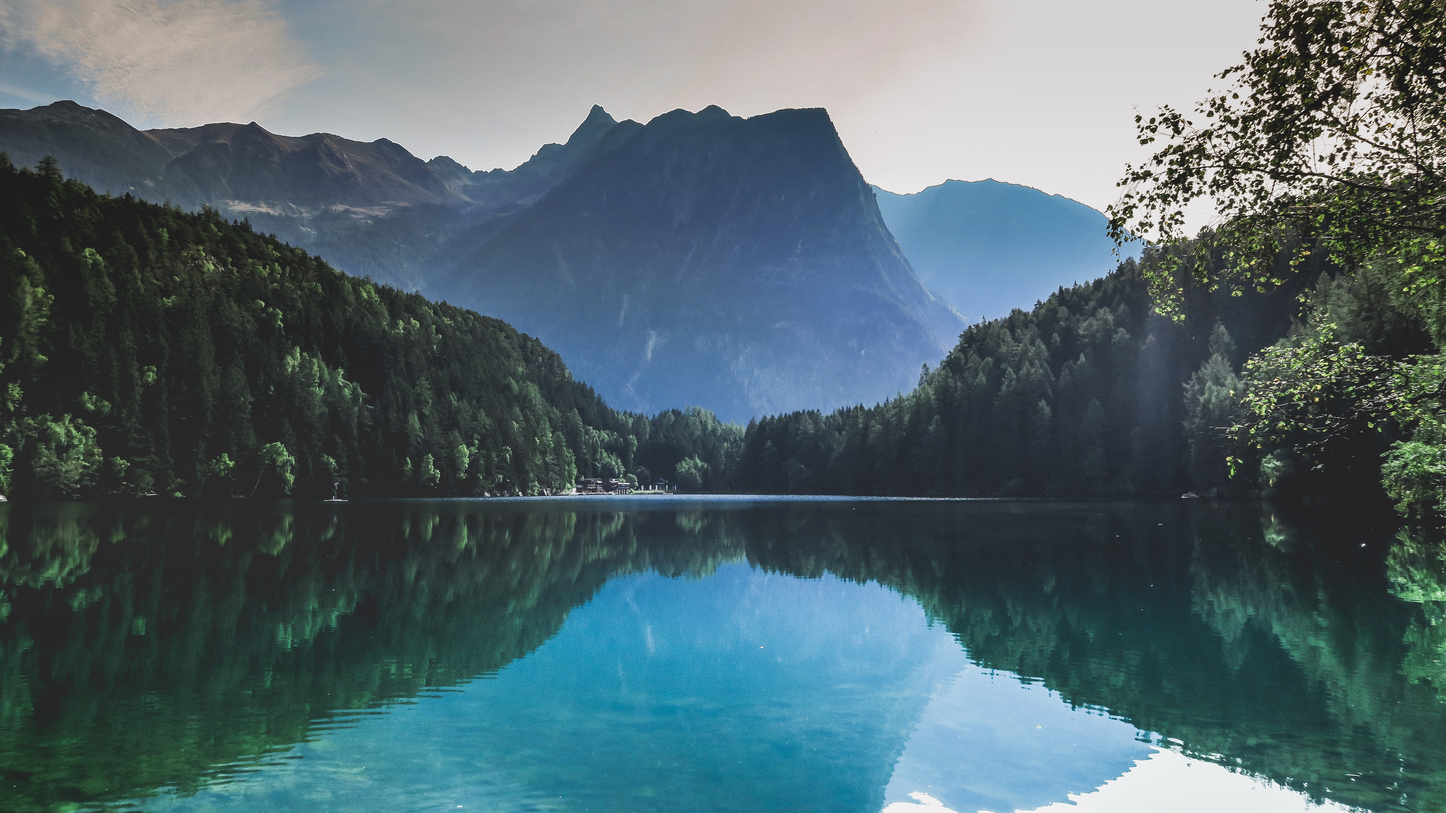
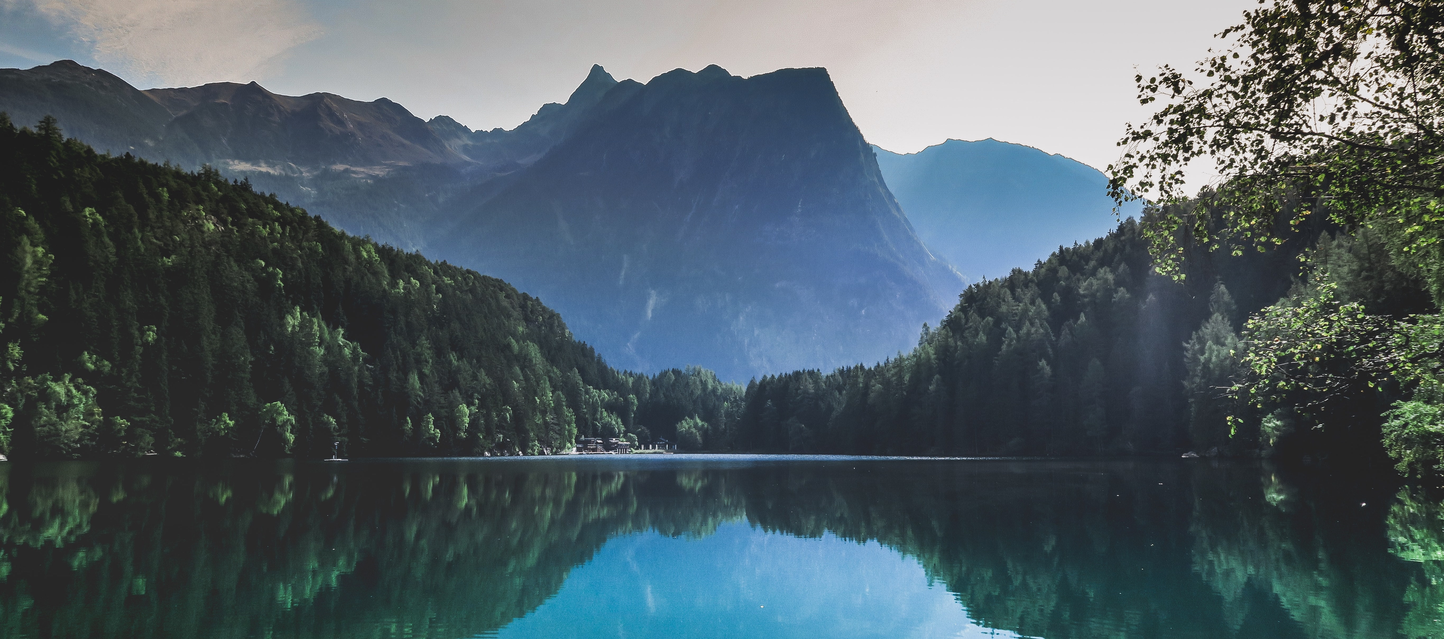
added flex boxes

diff --git a/styles/main.css b/styles/main.css
@@ -1,68 +1,133 @@
 
+logo {
 
- /* header {
-        background-color: white;
-        width: 900px;
+}
+
+
+img {
+        display: block;
+        margin-left: auto;
+        margin-right: auto;
+        width: 90%;
+}
+
+
+body {
+	background-color: white;
+}
+
+.main-section {
+        display: flex;
+        flex-flow: wrap;
+        background-color: #F2F2F2;
+        box-shadow: 0px 4px 4px rgba(0, 0, 0, 0.25);
+        justify-content: center;
+
+
+}
+
+
+h2 {
+        text-align: center; 
+ }
+
+h3 {
+        text-align: center;
+}
+
+
+ .dropdownContainer {
+        display: flex;
+	align-items: center;
+        justify-content: center;
+        background-color: whitesmoke;
         height: 50px;
+        margin: 20px;
+        box-shadow: 0px 4px 4px rgba(0, 0, 0, 0.2);
+
+}
+
+        .dropdownContainer > div {
+                background-color:#478ac9;
+                width: 700px;
+                height: 20px;
+                text-align: center;
+                font-size: 20px;
+                box-shadow: 0px 4px 4px rgba(0, 0, 0, 0.2);
+        }
+
+
+ .previewContainer {
+        display: flex;
+        flex-direction: column;
+        background-color: lightgrey;
+        width: 500px;
+        height: 350px;
+        justify-content: center;
+ }
+        
+                .previewContainer > div {
+                background-color: #f1f1f1;
+                position: center;
+                width: 400px;
+                height: 30px;
+                margin: 10px;
+                padding: 10px;
+                text-align: center;
+                line-height: 30px;
+                font-size: 20px;
+                box-shadow: 0px 4px 4px rgba(0, 0, 0, 0.2);
+                opacity: .9;
+ }
+        
+
+ #savedAdventuresContainer {
+        display: flex;
+        flex-direction: column;
+        background-color: #53adbb;
+        width: 400px;
+        height: 800px;
+        box-shadow: 0px 4px 4px rgba(0, 0, 0, 0.2);
+        opacity: .8;
+        }
+        
+                #savedAdventuresContainer > div {
+                display: flex;
+                position: center;
+                background-color: #f1f1f1;
+                width: 350px;
+                height: 200px;
+                margin: 20px;
+                text-align: center;
+                line-height: 75px;
+                font-size: 20px;
+                box-shadow: 0px 4px 4px rgba(0, 0, 0, 0.2);
+                opacity: .9;
+ }
+
+ /* .reviews {
+         display: flex;
+         flex-direction: column;
+         background-color: whitesmoke;
+         width: 500px;
+         height: 350px;
  } */
 
 
-/* .bannerImg {
-        background-color: white;
-} */
+.bottomBanner {
+        background: black;
+        width: 100%;
+        height: 60px;
+        
+}
 
-/* main {
-        border: solid green 1px;
-        position: absolute;
-        width: 900px;
-        height: 486px;
-        background: #F2F2F2;
-        box-shadow: 0px 4px 4px rgba(0, 0, 0, 0.25);
-} */
-                
-
-
-/* .dropdownTitle {
+footer {
+        background: darkgrey;
         text-align: center;
-} */
-
-/* .dropdownContainer {
-        background-color: purple;
-        width: 900px;
-        height: 50px;
-        text-align: center;
-} */
-
-/* .mainContentContainer {
-        position: absolute;
-        width: 900px;
-        height: 486px;
-        background: #F2F2F2;
-        box-shadow: 0px 4px 4px rgba(0, 0, 0, 0.25);
-} */
-
-/* .previewContainer {
-        position: absolute;
-        width: 283px;
-        height: 428px;
-        background: rgba(83, 173, 187, 0.6);
-        box-shadow: 0px 4px 4px rgba(0, 0, 0, 0.25);
-} */
-
-/* #savedAdventuresContainer {
-        border: solid black 1px;
-        position: absolute;
-        width: 283px;
-        height: 428px;
-        background: rgba(83, 173, 187, 0.6);
-        box-shadow: 0px 4px 4px rgba(0, 0, 0, 0.25);
-} */
-
-
-
-
-
-
+        width: 100%;
+        height: 40px;
+        padding: 10px;
+}
 
 
 

diff --git a/index.html b/index.html
@@ -3,34 +3,41 @@
 <head>
     <meta charset="UTF-8">
     <meta name="viewport" content="width=device-width, initial-scale=1.0">
-    <title>Hamiltons</title>
+    <title>Hamiltons Van-Life Travel</title>
+    <link rel="stylesheet" href="css/flexboxgrid.css">
     <link rel="stylesheet" href="./styles/main.css">
+   
 </head>
 
 <!-- HEADER -->
 <header>
-  <div>LOGO HERE</div>
+  <div class="logo">Van-Life</div>
 </header>
 
 <body>
-        <!-- BANNER IMAGE HERE -->
-    <div class="bannerImg"><img src="images/lakePhoto.jpg"  width="900" height="300" alt="calming lake nestled in green wooded mountains"></div>
+    
+    <!-- BANNER IMAGE HERE -->
+    <div><img src="images/lakePhoto.jpg"  width="80%" height="auto" alt="calming lake nestled in green wooded mountains"></div>
 
     <!-- HEADER SECTION -->
   
   <main>  
-  <div class="dropdownTitle"><h2> START YOUR ADVENTURE</h2></div>
+
+
+      <div><h2> START YOUR ADVENTURE</h2></div>
+
     <!-- DROPDOWN CONTAINER -->
     <section class="dropdownContainer">
-      <div class="parksDrop"></div>
-      <div class="eateriesDrop"></div>
-      <div class="attractionsDrop"></div>
-    </section>
+      <div class="parksDrop">Park</div>
+      <div class="eateriesDrop">Eat</div>
+      <div class="attractionsDrop">Attraction</div>
+    </section> 
 
-    <!-- PREVIEW PARENT CONTAINER THAT HOLDS SMALLER COMPONENTS -->
-      <section class="mainContentContainer">
+    <!-- MAIN SECTION CONTENT (PARENT CONTAINER)-->
+    <div class="main-section">
 
-      <!-- PREVIEW CONTAINER -->
+      <!-- PREVIEW CONTAINER (CHILD)-->
+
         <section class="previewContainer">
           <h3>Adventure Plan</h3>
           <div class="parksPreview"></div>
@@ -38,23 +45,26 @@
           <div class="attractionsPreview"></div>
           <div class="weatherPreview"></div>
         </section>
+      
 
-      <!-- ASIDE BOX -->
+      <!-- ASIDE BOX (CHILD)-->
         <aside>
-          <div id="savedAdventuresContainer"></div>
+          <div id="savedAdventuresContainer">
           <h3>Saved Adventures</h3>
           <div class="adventureCard1"></div>
           <div class="adventureCard2"></div>
           <div class="adventureCard3"></div>
+        </div>
       </aside>
 
-    <!-- REVIEWS -->
-        <section class="reviews">REVIEW CONTAINER</section>
+    <!-- REVIEWS (CHILD)-->
+        <!-- <section class="reviews">REVIEW CONTAINER</section>
             <div class="review1">review 1</div>
             <div class="review2">review 2</div>
             <div class="review3">review 3</div>
             <div class="review4">review 4</div>
-    </section>
+    </section> -->
+  </div>
     
 <!-- BOTTOM BANNER -->
     <section class="bottomBanner">
